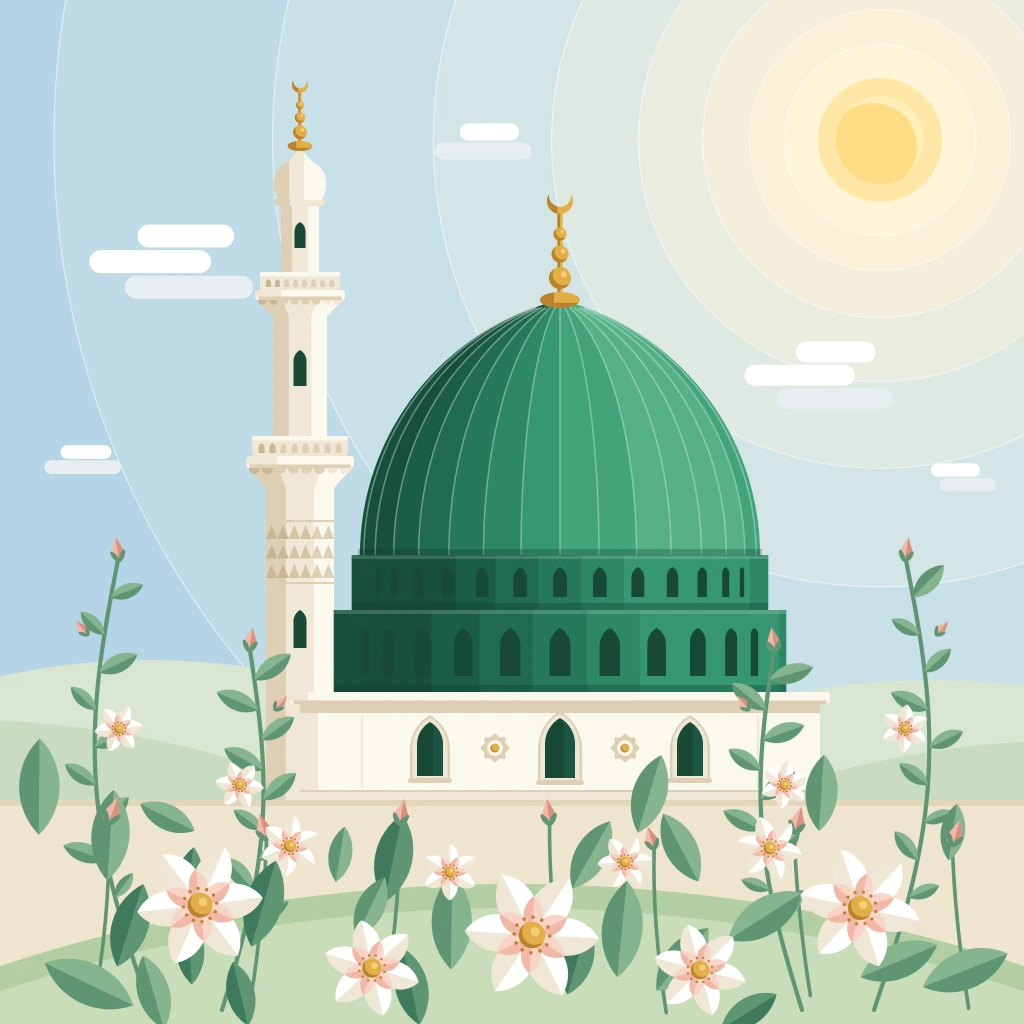
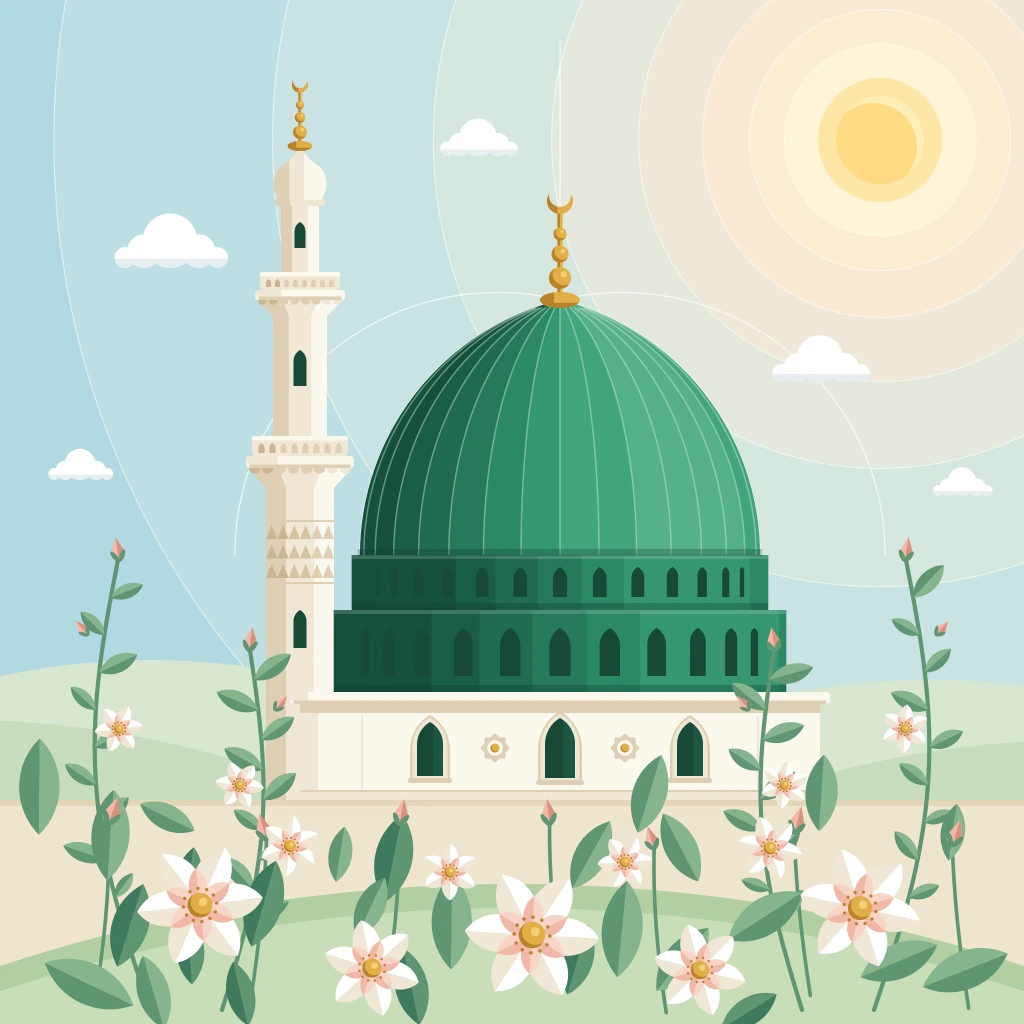
Atölye: dördüncü tur çalışmalarının ara kaydı
Claude-Session: https://claude.ai/code/session_01Q8CfoBGMPN7gfLWQYpMs1J

diff --git a/atolye/stiller/S-142-kristal-heykel/ornek.html b/atolye/stiller/S-142-kristal-heykel/ornek.html
@@ -918,7 +918,7 @@ const YAY2Y = (() => {
   const t = []; for (let y = 555; y >= 300; y -= 0.25) t.push([kubbeP.s(y), y]);
   return (s) => { let lo = 0, hi = t.length - 1; while (hi - lo > 1) { const m = (lo + hi) >> 1; if (t[m][0] < s) lo = m; else hi = m; } return t[lo][1]; };
 })();
-const ZUMRUT = [0.14, 0.86, 0.2], ZUMRUT_G = [0.003, 0.05, 0.014];
+const ZUMRUT = [0.12, 0.74, 0.17], ZUMRUT_G = [0.002, 0.035, 0.01];
 stil.kubbe = function (X, Y, out) {
   const gi = G.gore, f = G.f;
   const s = G.yay, row = Math.min(SATIR - 1, Math.floor(s / SATIRH)), fs = s / SATIRH - row;
@@ -928,15 +928,17 @@ stil.kubbe = function (X, Y, out) {
   const yatik = (fs - 0.5) * 0.12;
   nset(Math.sin(phic), -drc - yatik, Math.cos(phic));
   const h = ihash(gi, row, 5), h2 = ihash(row, gi, 8);
-  const ic = 0.6 + 0.6 * h + 0.2 * (1 - fs);
-  kristal(X, Y, out, { tint: ZUMRUT, ic, k: 26, disp: 0.18, govde: ZUMRUT_G, ici: [(h - 0.5) * 1.6, (h2 - 0.5) * 1.4 + (fs - 0.5) * 0.6], iciw: 0.7 });
+  // faset parlaklığı ışığa göre tutarlı, üstüne seyrek parlak "ateş" fasetleri
+  const nl = G.nx * LV[0] + G.ny * LV[1] + G.nz * LV[2];
+  const ic = 0.28 + 1.05 * smooth(-0.1, 0.95, nl) + 0.35 * (h - 0.5) + 0.12 * (1 - fs);
+  kristal(X, Y, out, { tint: ZUMRUT, ic, k: 26, disp: 0.18, govde: ZUMRUT_G, ici: [(h - 0.5) * 1.2 - G.nx * 0.8, (h2 - 0.5) * 1.0 + (fs - 0.5) * 0.5], iciw: 0.78 });
   // faset sırtları: meridyen (kaburga) ve enlem kenarları
   const dm = Math.min(f, 1 - f) * GW * G.r * Math.max(0.12, Math.cos(G.phi));
   const dl = Math.min(fs, 1 - fs) * SATIRH * 0.85;
   sirt(out, dm, f > 0.5 ? (gi < 9) : (gi >= 7), 1.5);
   if (row < SATIR - 1 || fs < 0.5) { if (dl < 0.7) cizgi(out, 0.22 * smooth(0.7, 0.2, dl), fs > 0.5 ? BEYAZ_IS : KOYU); }
   // iç parıltı: bazı fasetlerde ışığın tam yansıdığı açık yeşil bölge
-  if (h2 > 0.82) { const a = smooth(0.82, 1, h2) * 0.5 * (1 - Math.abs(fs - 0.5) * 2) * (1 - Math.abs(f - 0.5) * 2); out[0] += 0.25 * a; out[1] += 1.1 * a; out[2] += 0.45 * a; }
+  if (h2 > 0.86 && nl > 0.2) { const a = smooth(0.86, 1, h2) * 0.6 * (1 - Math.abs(fs - 0.5) * 2) * (1 - Math.abs(f - 0.5) * 2); out[0] += 0.25 * a; out[1] += 1.1 * a; out[2] += 0.45 * a; }
 };
 // ------------------------------------------------------------------ kasnak (dikey fasetli zümrüt)
 stil.kasnak = function (X, Y, out, kat) {
@@ -1023,9 +1025,15 @@ function kaideKristal(X, Y, out) {
     ic = 0.85; disp = 0.6;
   }
   const r = arka(sx * (1 - disp * 0.02), sy, 0), g = arka(sx, sy, 1), b = arka(sx * (1 + disp * 0.02), sy, 2);
-  out[0] = r * BERRAK[0] * ic; out[1] = g * BERRAK[1] * ic; out[2] = b * BERRAK[2] * ic;
+  // kalınlık: kenarlara doğru camın kendi yeşil-mavi rengi koyulaşır
+  const kal = Math.exp(-dx / 22) * 0.45 + Math.exp(-dy / 14) * 0.3;
+  const BL = [0.82, 0.95, 0.93];
+  out[0] = r * BL[0] * ic * (1 - kal * 0.6); out[1] = g * BL[1] * ic * (1 - kal * 0.35); out[2] = b * BL[2] * ic * (1 - kal * 0.4);
+  // ters ufuk çizgisi ve ışık şeridi
+  const uf = Math.exp(-Math.pow((v - 0.5) / 0.05, 2));
+  out[0] *= 1 - 0.25 * uf; out[1] *= 1 - 0.2 * uf; out[2] *= 1 - 0.15 * uf;
   // kubbenin zümrüt yansıması bloğun üst kısmında
-  const z = smooth(0.45, 0, v) * 0.35;
+  const z = smooth(0.42, 0, v) * 0.45 * smooth(300, 420, X) * smooth(820, 700, X);
   out[0] = mix(out[0], 0.2, z); out[1] = mix(out[1], 1.3, z); out[2] = mix(out[2], 0.55, z);
   // ince yatay iç yansıma şeritleri
   const s1 = Math.exp(-Math.pow((v - 0.5) / 0.012, 2)) * 0.8;
@@ -1056,7 +1064,7 @@ stil.altin = function (X, Y, out, parca) {
 };
 
 // ------------------------------------------------------------------ bitkiler: berrak pembe kristal çiçekler, peridot yapraklar
-const PEMBE_K = [1.0, 0.74, 0.86], PERIDOT = [0.42, 0.88, 0.2], PERIDOT_G = [0.015, 0.05, 0.008];
+const PEMBE_K = [1.0, 0.74, 0.86], PERIDOT = [0.3, 0.78, 0.18], PERIDOT_G = [0.008, 0.035, 0.006];
 let KD = null;
 function bolgeArka(L) { arkaAl(L.x0 - 40, L.y0 - 40, L.x0 + L.w / O + 40, L.y0 + L.h / O + 40); }
 stil.sap = function (X, Y, out) { kristal(X, Y, out, { tint: PERIDOT, ic: 0.85, k: 5, disp: 0.2, govde: PERIDOT_G, spec: 0.3, ici: [0, 0.3], iciw: 0.4 }); };
@@ -1067,7 +1075,7 @@ stil.yaprak = function (X, Y, out, y, i) {
   const px = -sa * side, py = ca * side;
   nset(px * 0.42 + G.nx * 0.3, py * 0.42 + G.ny * 0.3, 0.85);
   const h = ihash(i, 1, 9);
-  kristal(X, Y, out, { tint: PERIDOT, ic: side > 0 ? 0.6 + h * 0.3 : 1.0 + h * 0.3, k: 12, disp: 0.2, govde: PERIDOT_G, spec: 0.25, ici: [side * 0.6, (h - 0.5)], iciw: 0.55 });
+  kristal(X, Y, out, { tint: PERIDOT, ic: side > 0 ? 0.45 + h * 0.3 : 0.95 + h * 0.3, k: 12, disp: 0.2, govde: PERIDOT_G, spec: 0.25, ici: [side * 0.6, (h - 0.5)], iciw: 0.62 });
   sirt(out, Math.abs(G.lvp), side < 0, 0.9);
   // kalın cam kenarı: kenarda koyu yeşil, en dışta ince parlak çizgi
   const D = KD ? KD.D[KD.k] : 9;
@@ -1081,7 +1089,7 @@ stil.tac = function (X, Y, out, c, p, k, L) {
   const px = -Math.sin(a) * side, py = Math.cos(a) * side;
   const rx = Math.cos(a), ry = Math.sin(a);
   nset(px * 0.38 - rx * 0.3 * G.rho, py * 0.38 - ry * 0.3 * G.rho, 0.85);
-  kristal(X, Y, out, { tint: PEMBE_K, ic: side > 0 ? 1.1 : 0.7, k: c.r * 0.35, disp: 0.3, govde: [0.04, 0.012, 0.025], spec: 0.25, ici: [side * 0.7, G.rho - 0.6], iciw: 0.5 });
+  kristal(X, Y, out, { tint: PEMBE_K, ic: side > 0 ? 1.1 : 0.7, k: c.r * 0.35, disp: 0.22, govde: [0.04, 0.012, 0.025], spec: 0.25, ici: [side * 0.7, G.rho - 0.6], iciw: 0.5 });
   sirt(out, Math.abs(G.pv) * c.r, side < 0, 0.8);
   const D = L.D[k];
   if (D < 2.4) cizgi(out, 0.35 * smooth(2.4, 0.7, D), [0.45, 0.2, 0.32]);

diff --git a/atolye/stiller/S-126-geometrik-vektor/ornek.html b/atolye/stiller/S-126-geometrik-vektor/ornek.html
@@ -24,7 +24,7 @@
 
   // ---------------------------------------------------------------- palet
   const P = {
-    gokHalka: ['#FFF5D9', '#FBF1D8', '#F3EEDB', '#E9ECDF', '#DEE9E3', '#D3E5E7', '#C9E0E9', '#BFDAE8', '#B6D4E6'],
+    gokHalka: ['#FFF4D8', '#FDEDD3', '#F8E9D5', '#EFE8D9', '#E3E8DC', '#D6E7DF', '#C9E3E2', '#BDDEE3', '#B2D8E2'],
     gunes: '#FFE7A6', gunesIc: '#FFDB86',
     bulut: '#FFFFFF', bulutG: '#E7EFF0',
     yesil: ['#17503D', '#1B5D47', '#206B51', '#26795B', '#2D8866', '#369671', '#43A47C', '#55B188'],
@@ -112,20 +112,34 @@
     p.closePath();
     return p;
   }
-  // bulut: aynı yarıçaplı hap dizileri; satırlar arasında eşit, ince gök aralığı
-  function bulut(x, y, s, sira) {
-    const r = 11 * s, ara = 2.4 * s;
-    sira.forEach(([a, b], i) => {
-      const yy = y + i * (2 * r + ara);
-      const son = i === sira.length - 1;
-      dol(hap(x + a * s, x + b * s, yy, r), son ? P.bulutG : P.bulut);
+  // pergel izleri: kubbeyi kuran iki büyük daire (merkezleri taban çizgisinde) gökte ince beyaz yay olarak görünür
+  ctx.save();
+  ctx.lineWidth = 1.3;
+  ctx.strokeStyle = 'rgba(255,255,255,0.7)';
+  for (const cx of [560 - 62.58, 560 + 62.58]) { ctx.beginPath(); ctx.arc(cx, 555, 262.58, Math.PI, TAU); ctx.stroke(); }
+  ctx.beginPath(); ctx.moveTo(560, 40); ctx.lineTo(560, 300); ctx.stroke();
+  ctx.restore();
+
+  // bulut: aynı taban çizgisine oturan, yarıçapları altın oranla küçülen daireler; düz taban, yatay gölge şeridi
+  function bulut(x, y, s) {
+    const r2 = 26 * s, r1 = r2 / 1.618, r3 = r1 / 1.618;
+    const p = new Path2D();
+    p.addPath(daire(x - r2 * 0.95, y - r1, r1));
+    p.addPath(daire(x, y - r2, r2));
+    p.addPath(daire(x + r2 * 1.05, y - r1, r1));
+    p.addPath(daire(x + r2 * 1.75, y - r3, r3));
+    p.addPath(daire(x - r2 * 1.65, y - r3, r3));
+    const kes = dik(x - 200 * s, y - 200 * s, x + 200 * s, y);
+    kirpli(kes, () => {
+      dol(p, P.bulut);
+      kirpli(p, () => dol(dik(x - 200 * s, y - r3 * 0.9, x + 200 * s, y), P.bulutG));
     });
   }
-  bulut(168, 236, 1.05, [[-18, 52], [-64, 30], [-30, 70]]);
-  bulut(484, 132, 0.78, [[-20, 34], [-52, 50]]);
-  bulut(812, 352, 0.95, [[-6, 56], [-60, 34], [-26, 74]]);
-  bulut(86, 452, 0.62, [[-30, 30], [-56, 46]]);
-  bulut(958, 470, 0.6, [[-34, 26], [-20, 52]]);
+  bulut(170, 268, 1.05);
+  bulut(478, 156, 0.72);
+  bulut(820, 382, 0.9);
+  bulut(80, 480, 0.6);
+  bulut(962, 496, 0.55);
 
   // ---------------------------------------------------------------- yer
   dol(dik(0, 800, 1024, 1024), P.zemin);

diff --git a/atolye/stiller/S-154-mermer-doku-vektor/ornek.html b/atolye/stiller/S-154-mermer-doku-vektor/ornek.html
@@ -221,7 +221,7 @@
   altinDolgu(SAHNE.daireYolu(880, 140, 54));
   altinKontur(SAHNE.daireYolu(880, 140, 54), 2.2);
   altinKontur(SAHNE.daireYolu(880, 140, 76), 1.4);
-  altinKontur(SAHNE.daireYolu(880, 140, 112), 1.0);
+  altinKontur(SAHNE.daireYolu(880, 140, 100), 1.0);
 
   function bulutYolu(cx, cy, s, ayna) {
     const m = ayna ? -1 : 1;
